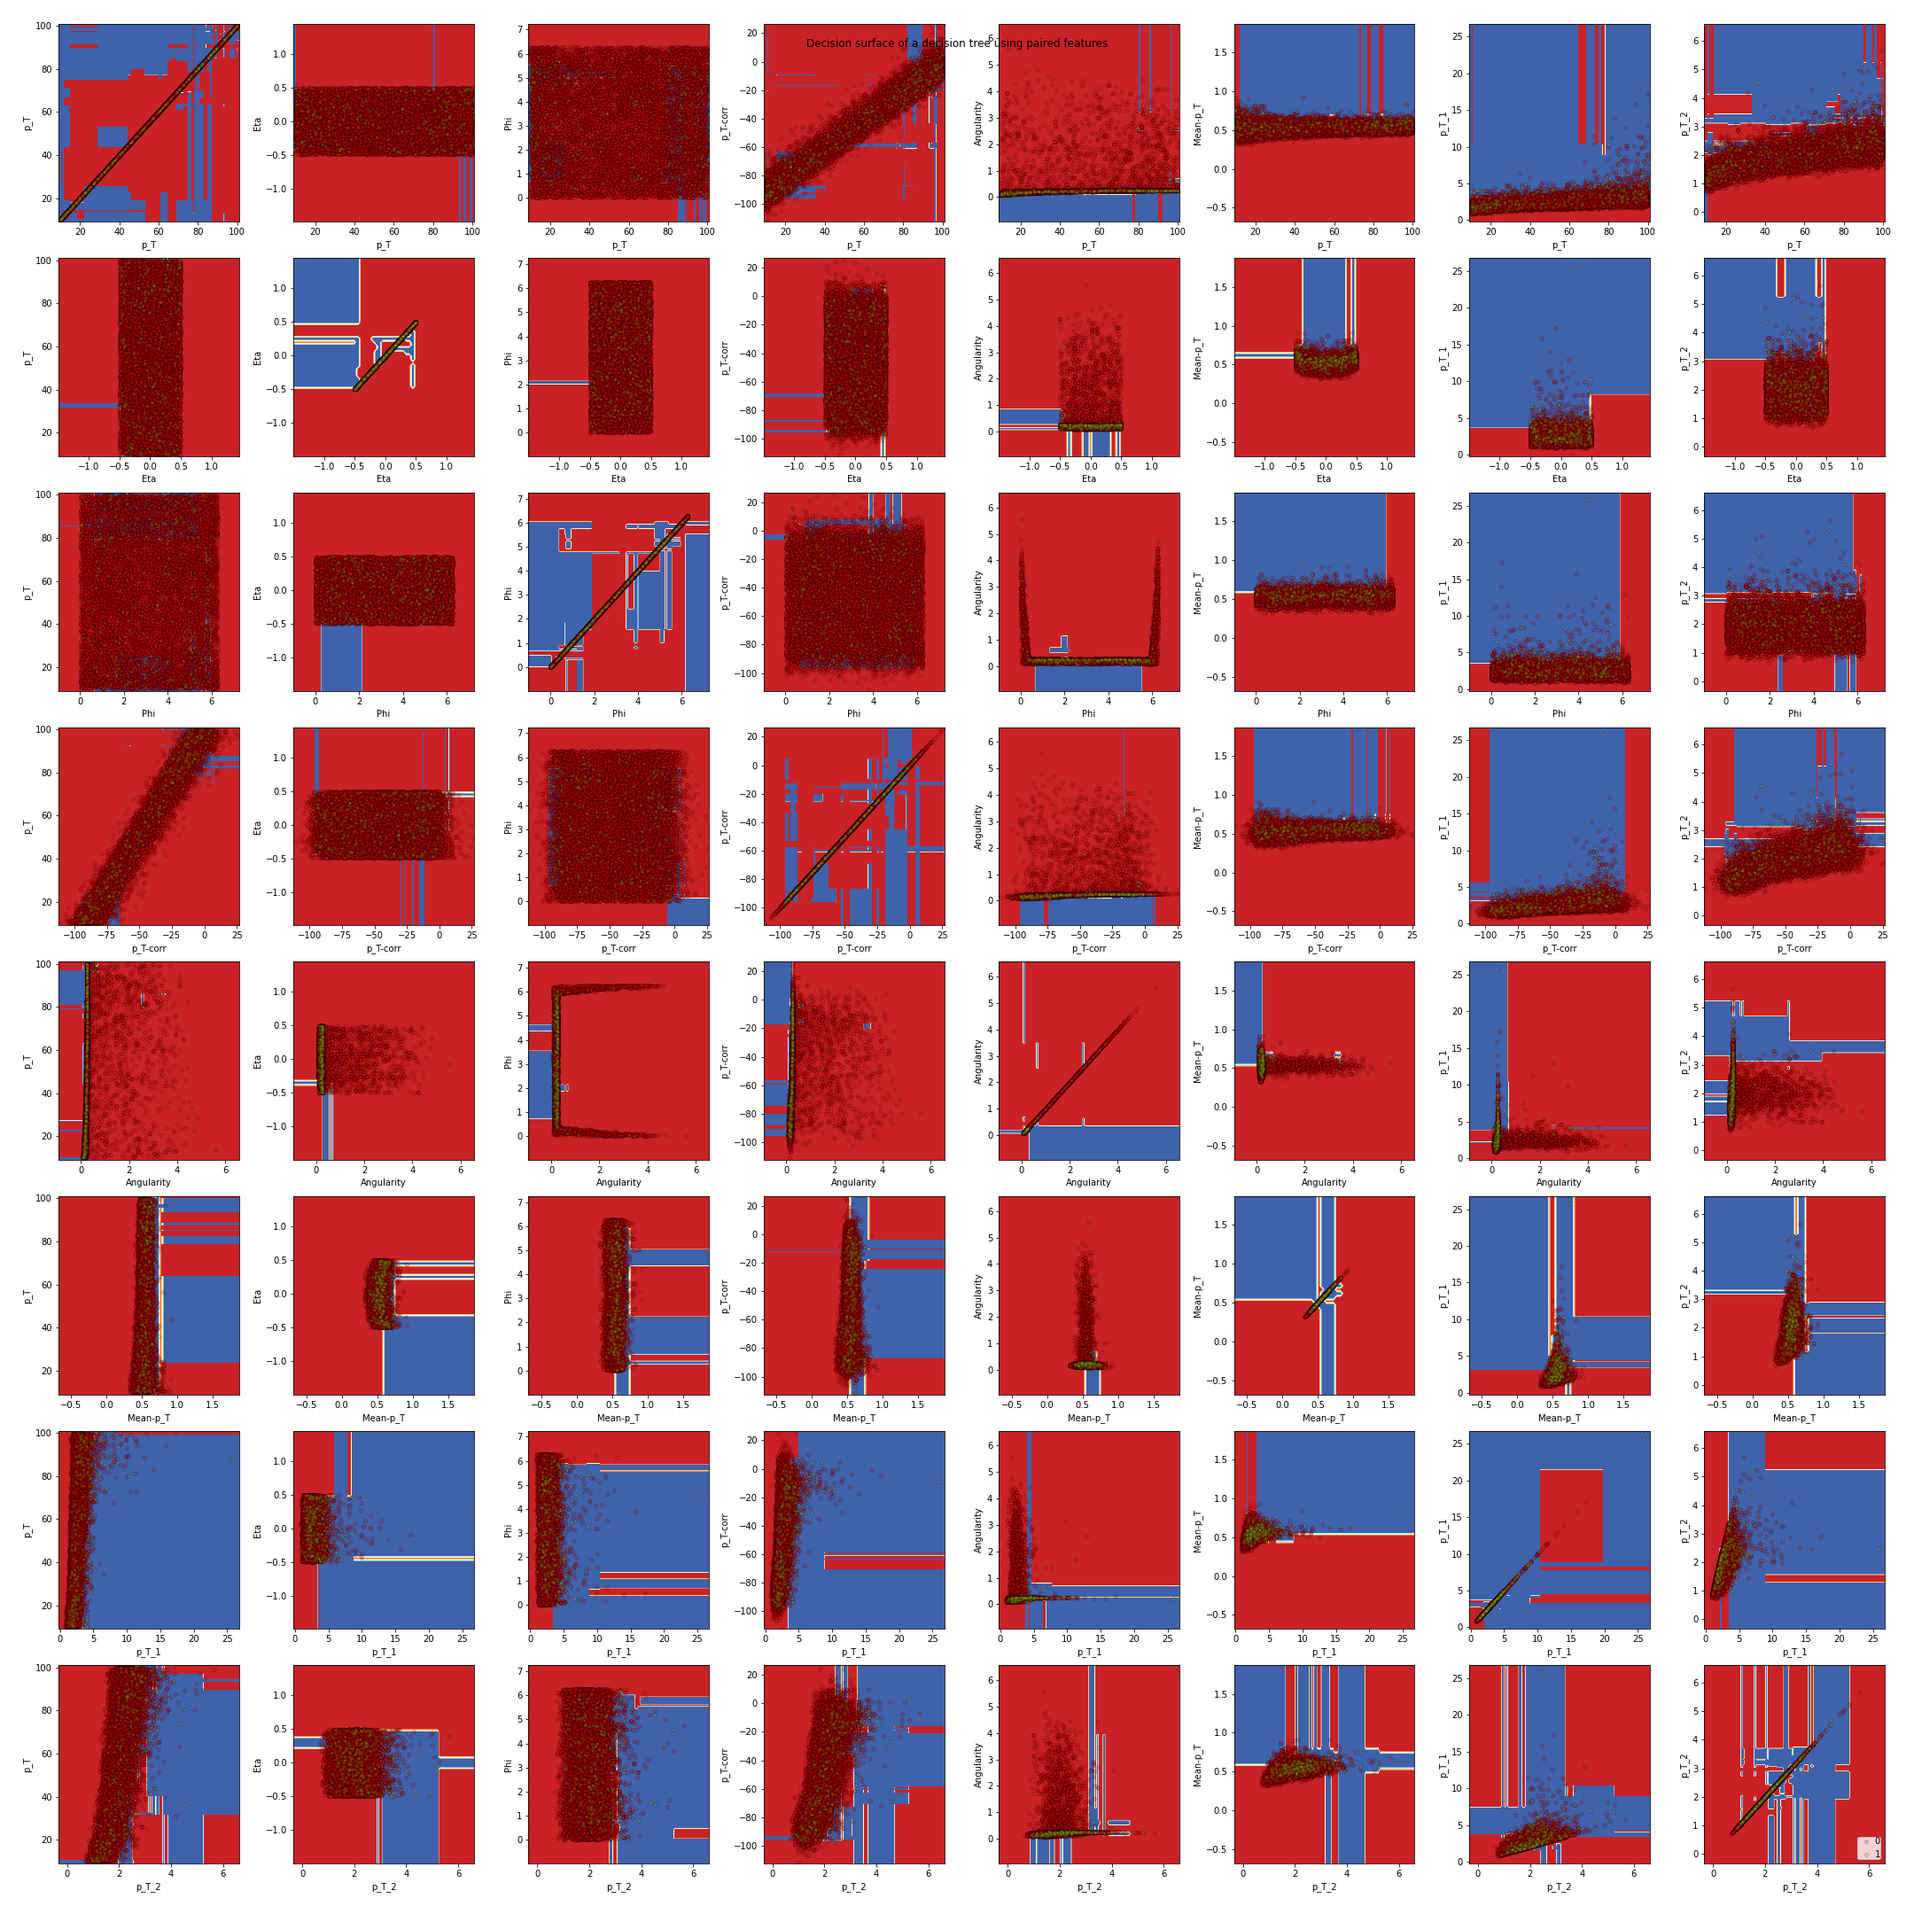
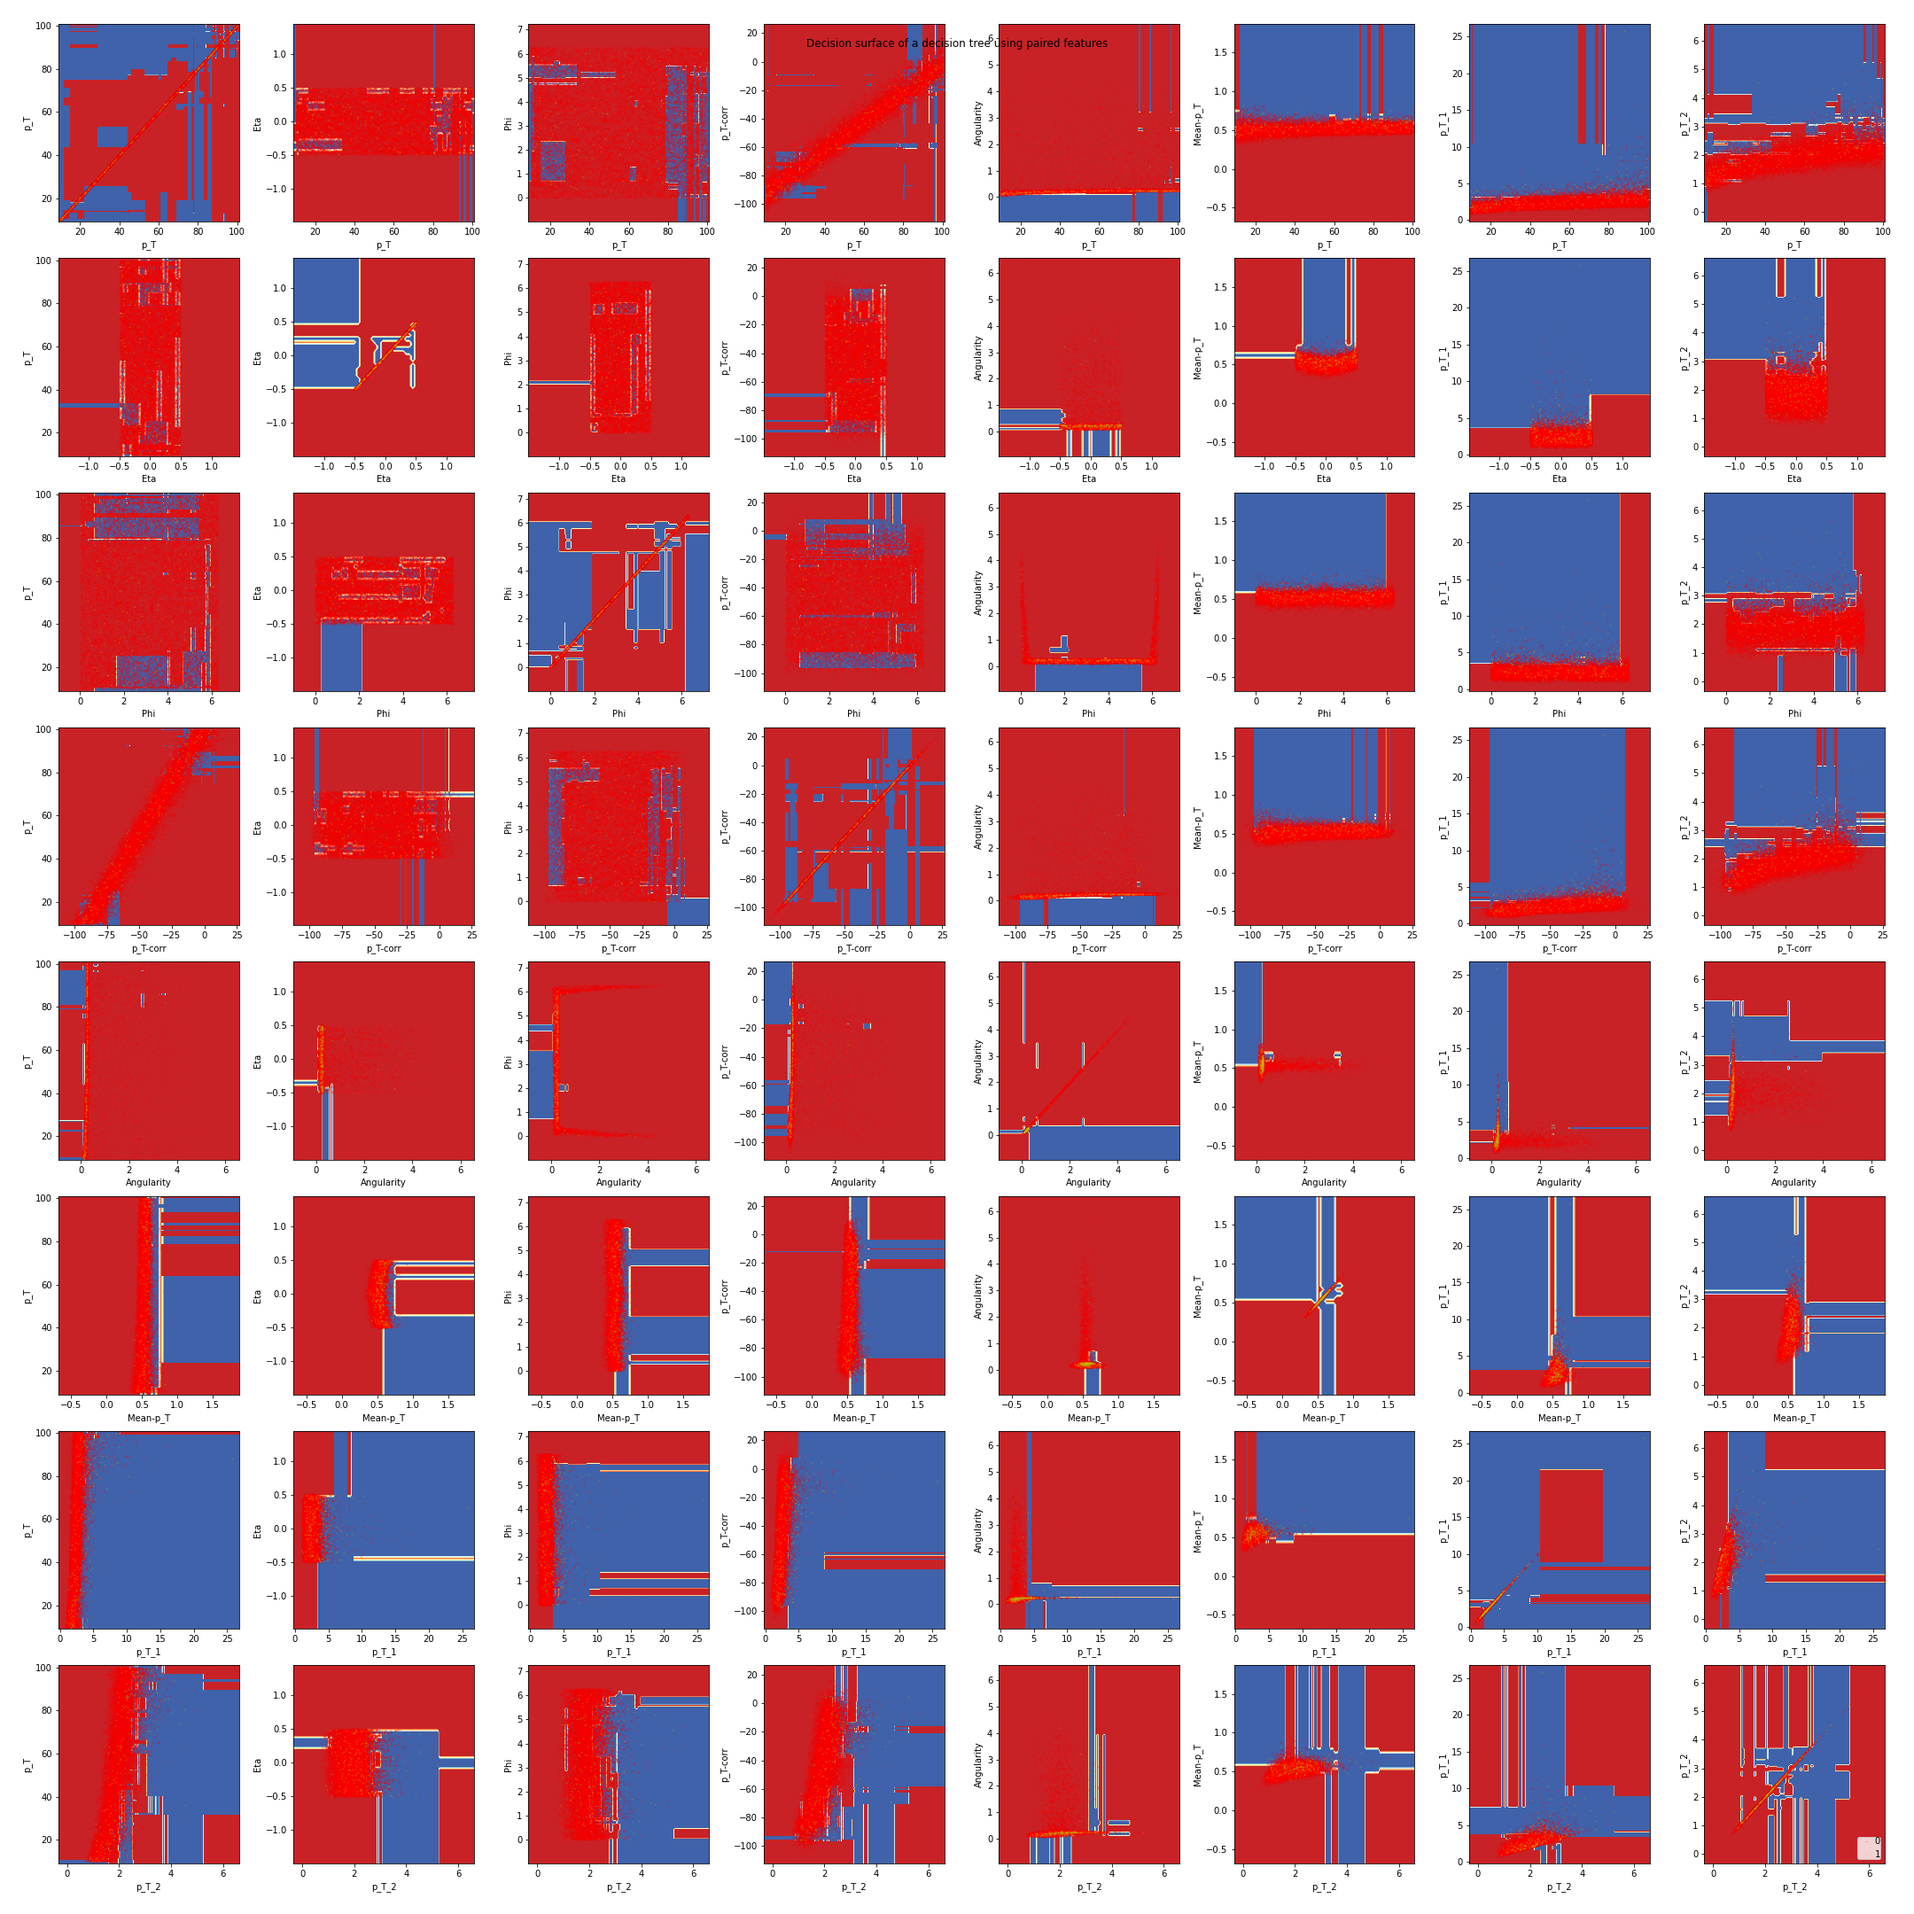
Improving visual quality of Decision Boundary plot and adding incrementally to the README

diff --git a/README.md b/README.md
@@ -1,2 +1,5 @@
 # ML-Jet-BG-Subtraction
 C++ scripts for generating a realistic Jet event and python scripts for a machine learning solution to BG subtraction
+
+# Installation
+## Prerequisites
